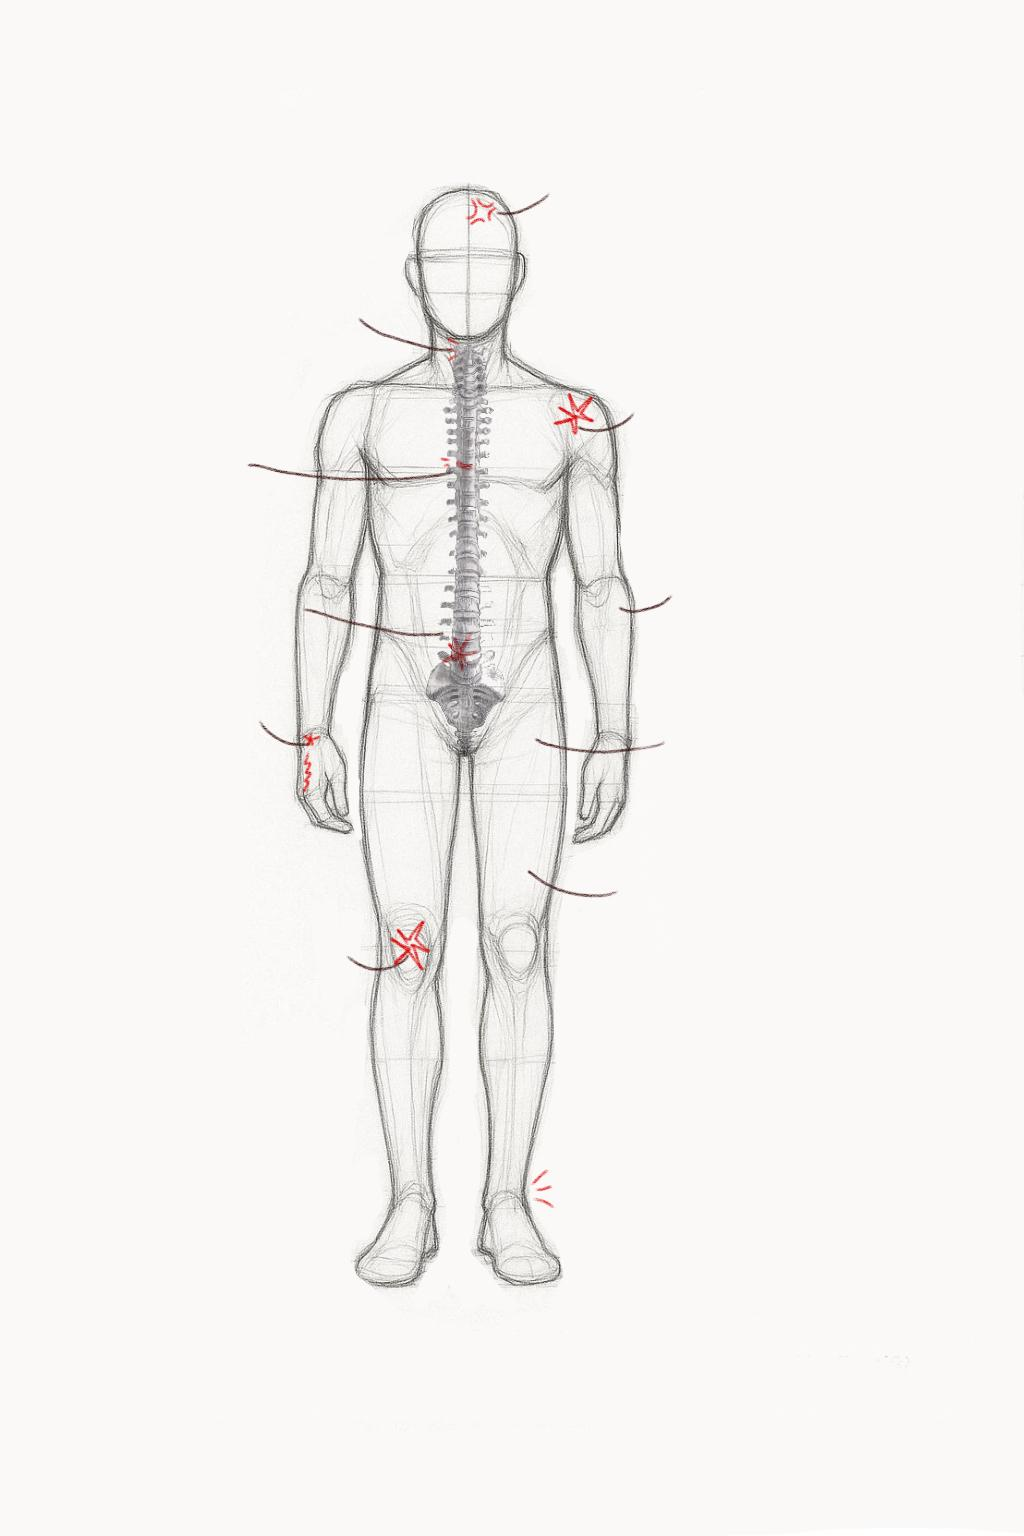
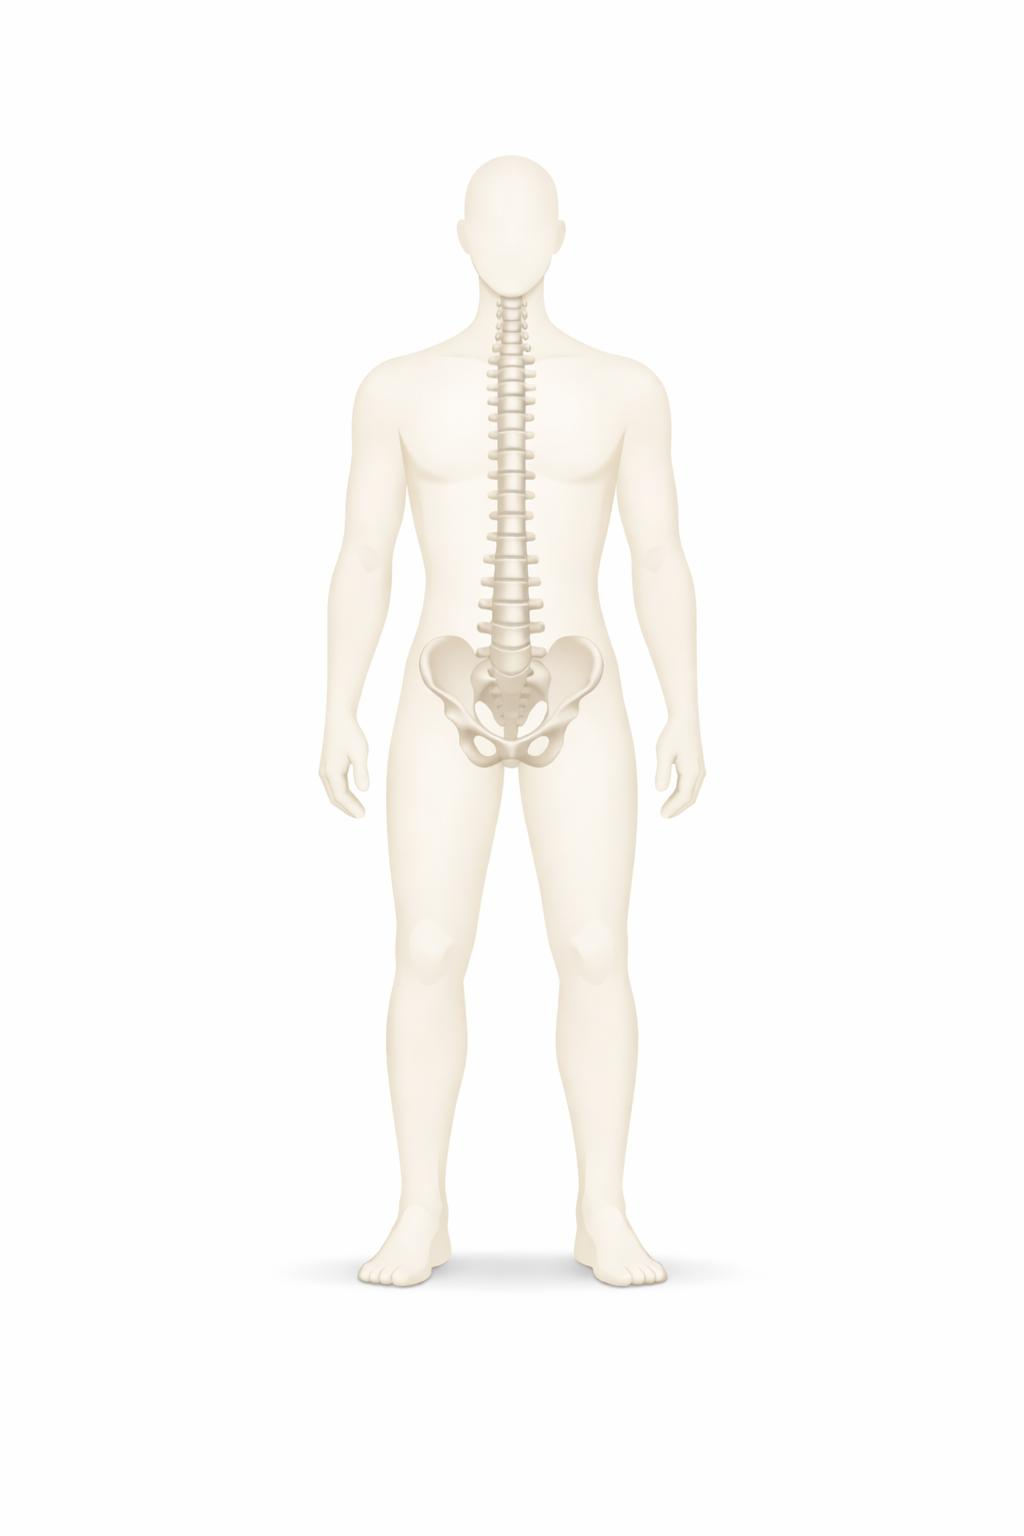
eee

Changed region(s): [[0.2812, 0.0938, 0.6875, 0.8438]]

diff --git a/Site Laly/index.html b/Site Laly/index.html
@@ -191,21 +191,15 @@
               alt="Schema du corps avec zones de douleurs frequentes" />
 
             <button class="bodymap__tag bodymap__tag--migraines" type="button"
-                    data-title="Migraines"
+                    data-title="Migraine"
                     data-text="Le travail cervical et cranio-mandibulaire peut reduire certaines tensions mecaniques associees aux migraines et cephalees.">
-              Migraines
-            </button>
-
-            <button class="bodymap__tag bodymap__tag--vertiges" type="button"
-                    data-title="Vertiges"
-                    data-text="Un bilan global permet d'identifier les restrictions cervicales ou posturales pouvant entretenir des sensations vertigineuses.">
-              Vertiges
+              Migraine
             </button>
 
             <button class="bodymap__tag bodymap__tag--cervicale" type="button"
-                    data-title="Douleur cervicale / torticolis"
+                    data-title="Douleur cervicale"
                     data-text="La chiropraxie vise a restaurer la mobilite du rachis cervical et a diminuer les tensions musculaires responsables des blocages.">
-              Douleur cervicale / torticolis
+              Douleur cervicale
             </button>
 
             <button class="bodymap__tag bodymap__tag--epaule" type="button"
@@ -214,28 +208,10 @@
               Douleur d'epaule
             </button>
 
-            <button class="bodymap__tag bodymap__tag--dorsalgie" type="button"
-                    data-title="Dorsalgie / hernie discale"
-                    data-text="Le traitement combine evaluation neurologique, mobilisation ciblee et conseils pour diminuer les contraintes discales au quotidien.">
-              Dorsalgie / hernie discale
-            </button>
-
-            <button class="bodymap__tag bodymap__tag--raideur" type="button"
-                    data-title="Raideur vertebrale"
-                    data-text="Les ajustements et mobilisations ameliorent l'amplitude articulaire et la qualite du mouvement, avec un plan d'exercices simple.">
-              Raideur vertebrale
-            </button>
-
             <button class="bodymap__tag bodymap__tag--lombalgie" type="button"
                     data-title="Lombalgie"
                     data-text="Pour les douleurs lombaires, l'objectif est de reduire l'irritation mecanique, ameliorer la stabilite et prevenir les recidives.">
               Lombalgie
-            </button>
-
-            <button class="bodymap__tag bodymap__tag--tendinite" type="button"
-                    data-title="Tendinite"
-                    data-text="La chiropraxie agit sur les chaines de compensation articulaires et musculaires pour decharger la zone tendineuse irritee.">
-              Tendinite
             </button>
 
             <button class="bodymap__tag bodymap__tag--carpien" type="button"
@@ -244,16 +220,10 @@
               Canal carpien
             </button>
 
-            <button class="bodymap__tag bodymap__tag--hanche" type="button"
-                    data-title="Douleur de hanche"
-                    data-text="Le bassin, la colonne et la chaine inferieure sont ajustes ensemble pour reduire les surcharges sur la hanche.">
-              Douleur de hanche
-            </button>
-
             <button class="bodymap__tag bodymap__tag--genoux" type="button"
-                    data-title="Genoux"
+                    data-title="Douleur genou"
                     data-text="L'analyse du genou inclut aussi cheville, hanche et bassin afin de corriger les appuis et limiter les contraintes.">
-              Genoux
+              Douleur genou
             </button>
 
             <button class="bodymap__tag bodymap__tag--sciatique" type="button"
@@ -262,25 +232,75 @@
               Sciatique
             </button>
 
-            <button class="bodymap__tag bodymap__tag--sport" type="button"
-                    data-title="Blessure sportive"
-                    data-text="Objectif: recuperer plus vite, optimiser la mobilite et prevenir les recidives grace a un suivi adapte a votre pratique.">
-              Blessure sportive
-            </button>
-
-            <button class="bodymap__tag bodymap__tag--cheville" type="button"
-                    data-title="Cheville"
-                    data-text="Une cheville limitee peut impacter toute la posture. Le traitement vise a retrouver stabilite, mobilite et confiance en appui.">
-              Cheville
-            </button>
-
-            <button class="bodymap__tag bodymap__tag--mobilite" type="button"
-                    data-title="Mobilite"
-                    data-text="Au-dela de la douleur, la chiropraxie aide a retrouver de l'aisance dans les gestes du quotidien et une meilleure qualite de mouvement.">
-              Mobilite
-            </button>
           </div>
 
+        </div>
+
+        <div class="bodymap__locker" aria-label="Autres motifs de consultation">
+          <p class="bodymap__lockerTitle">Autres motifs de consultation</p>
+          <ul class="bodymap__lockerList">
+            <li class="bodymap__lockerItem">
+              <button class="bodymap__lockerBtn" type="button"
+                      data-title="Vertiges"
+                      data-text="Un bilan global permet d'identifier les restrictions cervicales ou posturales pouvant entretenir des sensations vertigineuses.">
+                Vertiges
+              </button>
+            </li>
+            <li class="bodymap__lockerItem">
+              <button class="bodymap__lockerBtn" type="button"
+                      data-title="Dorsalgie / hernie discale"
+                      data-text="Le traitement combine evaluation neurologique, mobilisation ciblee et conseils pour diminuer les contraintes discales au quotidien.">
+                Dorsalgie / hernie discale
+              </button>
+            </li>
+            <li class="bodymap__lockerItem">
+              <button class="bodymap__lockerBtn" type="button"
+                      data-title="Raideur vertebrale"
+                      data-text="Les ajustements et mobilisations ameliorent l'amplitude articulaire et la qualite du mouvement, avec un plan d'exercices simple.">
+                Raideur vertebrale
+              </button>
+            </li>
+            <li class="bodymap__lockerItem">
+              <button class="bodymap__lockerBtn" type="button"
+                      data-title="Tendinite"
+                      data-text="La chiropraxie agit sur les chaines de compensation articulaires et musculaires pour decharger la zone tendineuse irritee.">
+                Tendinite
+              </button>
+            </li>
+            <li class="bodymap__lockerItem">
+              <button class="bodymap__lockerBtn" type="button"
+                      data-title="Douleur de hanche"
+                      data-text="Le bassin, la colonne et la chaine inferieure sont ajustes ensemble pour reduire les surcharges sur la hanche.">
+                Douleur de hanche
+              </button>
+            </li>
+            <li class="bodymap__lockerItem">
+              <button class="bodymap__lockerBtn" type="button"
+                      data-title="Blessure sportive"
+                      data-text="Objectif: recuperer plus vite, optimiser la mobilite et prevenir les recidives grace a un suivi adapte a votre pratique.">
+                Blessure sportive
+              </button>
+            </li>
+            <li class="bodymap__lockerItem">
+              <button class="bodymap__lockerBtn" type="button"
+                      data-title="Cheville"
+                      data-text="Une cheville limitee peut impacter toute la posture. Le traitement vise a retrouver stabilite, mobilite et confiance en appui.">
+                Cheville
+              </button>
+            </li>
+            <li class="bodymap__lockerItem">
+              <button class="bodymap__lockerBtn" type="button"
+                      data-title="Mobilite"
+                      data-text="Au-dela de la douleur, la chiropraxie aide a retrouver de l'aisance dans les gestes du quotidien et une meilleure qualite de mouvement.">
+                Mobilite
+              </button>
+            </li>
+          </ul>
+          <div class="bodymap__lockerPanel" id="bodymap-locker-panel" data-bodymap-locker-panel hidden aria-hidden="true">
+            <p class="bodymap__eyebrow">Indication frequente</p>
+            <h3 class="bodymap__panelTitle" data-bodymap-locker-title>Selectionnez un motif</h3>
+            <p class="bodymap__panelText" data-bodymap-locker-text>Cliquez sur un element du casier pour afficher les informations.</p>
+          </div>
         </div>
 
         <p class="bodymap__note">

diff --git a/Site Laly/assets/css/index.css b/Site Laly/assets/css/index.css
@@ -604,20 +604,90 @@
 }
 
 .bodymap__tag--migraines{ top:11%; right:30%; }
-.bodymap__tag--vertiges{ top:16%; right:18%; }
 .bodymap__tag--cervicale{ top:16%; left:-7%; max-width:300px; }
 .bodymap__tag--epaule{ top:24%; right:9%; max-width:300px; }
-.bodymap__tag--dorsalgie{ top:27%; left:-7%; max-width:300px; }
-.bodymap__tag--raideur{ top:30%; right:10%; max-width:300px; }
 .bodymap__tag--lombalgie{ top:36%; left:-4%; }
-.bodymap__tag--tendinite{ top:36%; right:15%; }
 .bodymap__tag--carpien{ top:44%; left:5%; }
-.bodymap__tag--hanche{ top:46%; right:5%; }
-.bodymap__tag--genoux{ top:59%; left:18%; }
+.bodymap__tag--genoux{ top:59%; left:14%; max-width:220px; }
 .bodymap__tag--sciatique{ top:55%; right:16%; }
-.bodymap__tag--sport{ top:63%; right:13%; }
-.bodymap__tag--mobilite{ top:66%; left:10%; }
-.bodymap__tag--cheville{ top:73%; right:28%; }
+
+.bodymap__locker{
+  width:min(920px, 100%);
+  margin:10px auto 0;
+  padding:18px 20px;
+  background:rgba(255, 255, 255, .68);
+  border:1px solid rgba(20, 54, 44, .14);
+  border-radius:16px;
+  box-shadow:0 12px 28px rgba(20, 44, 36, .08);
+}
+
+.bodymap__lockerTitle{
+  margin:0 0 12px;
+  font-family:var(--ff-title);
+  color:var(--c-text);
+  font-size:22px;
+  line-height:1.2;
+}
+
+.bodymap__lockerList{
+  margin:0;
+  padding:0;
+  list-style:none;
+  display:flex;
+  flex-wrap:wrap;
+  gap:10px;
+}
+
+.bodymap__lockerItem{
+  margin:0;
+}
+
+.bodymap__lockerBtn{
+  border:none;
+  padding:7px 12px;
+  border-radius:999px;
+  background:rgba(30, 107, 58, .10);
+  border:1px solid rgba(30, 107, 58, .20);
+  color:#2b4d41;
+  font-family:var(--ff-body);
+  font-size:14px;
+  line-height:1.35;
+  font-weight:700;
+  cursor:pointer;
+  transition:background .18s ease, border-color .18s ease, color .18s ease, transform .18s ease;
+}
+
+.bodymap__lockerBtn:hover,
+.bodymap__lockerBtn:focus-visible{
+  background:rgba(30, 107, 58, .16);
+  border-color:rgba(30, 107, 58, .36);
+  transform:translateY(-1px);
+  outline:none;
+}
+
+.bodymap__lockerBtn.is-active{
+  background:rgba(30, 107, 58, .24);
+  border-color:rgba(30, 107, 58, .46);
+  color:#17352d;
+}
+
+.bodymap__lockerPanel{
+  margin-top:14px;
+  padding:14px 16px;
+  background:rgba(255, 255, 255, .94);
+  border:1px solid rgba(20, 54, 44, .14);
+  border-radius:12px;
+}
+
+.bodymap__lockerPanel .bodymap__panelTitle{
+  margin:8px 0 8px;
+  font-size:20px;
+}
+
+.bodymap__lockerPanel .bodymap__panelText{
+  font-size:14px;
+  line-height:1.55;
+}
 
 .bodymap__tagPopup{
   position:absolute;
@@ -712,6 +782,16 @@
   .bodymap__layout{
     grid-template-columns:1fr;
     gap:16px;
+  }
+
+  .bodymap__locker{
+    padding:14px;
+    border-radius:14px;
+  }
+
+  .bodymap__lockerTitle{
+    font-size:20px;
+    margin-bottom:10px;
   }
 
   .bodymap__panelTitle{

diff --git a/Site Laly/assets/js/index.js b/Site Laly/assets/js/index.js
@@ -300,4 +300,69 @@
   });
 })();
 
+/* Body map locker interactions */
+(function(){
+  const locker = document.querySelector('.bodymap__locker');
+  if(!locker) return;
+
+  const buttons = [...locker.querySelectorAll('.bodymap__lockerBtn')];
+  const panel = locker.querySelector('[data-bodymap-locker-panel]');
+  const title = locker.querySelector('[data-bodymap-locker-title]');
+  const text = locker.querySelector('[data-bodymap-locker-text]');
+  if(!buttons.length || !panel || !title || !text) return;
+
+  let activeButton = null;
+
+  function setActive(button){
+    activeButton = button;
+
+    buttons.forEach((item) => {
+      const isCurrent = item === button;
+      item.classList.toggle('is-active', isCurrent);
+      item.setAttribute('aria-pressed', isCurrent ? 'true' : 'false');
+      item.setAttribute('aria-expanded', isCurrent ? 'true' : 'false');
+    });
+
+    if(!button){
+      panel.hidden = true;
+      panel.setAttribute('aria-hidden', 'true');
+      return;
+    }
+
+    title.textContent = button.dataset.title || button.textContent.trim();
+    text.textContent = button.dataset.text || '';
+    panel.hidden = false;
+    panel.setAttribute('aria-hidden', 'false');
+  }
+
+  buttons.forEach((button) => {
+    button.setAttribute('aria-controls', 'bodymap-locker-panel');
+    button.setAttribute('aria-pressed', 'false');
+    button.setAttribute('aria-expanded', 'false');
+
+    button.addEventListener('click', (e) => {
+      e.stopPropagation();
+
+      if(activeButton === button){
+        setActive(null);
+        return;
+      }
+
+      setActive(button);
+    });
+  });
+
+  document.addEventListener('click', (e) => {
+    if(locker.contains(e.target)) return;
+    if(!activeButton) return;
+    setActive(null);
+  });
+
+  document.addEventListener('keydown', (e) => {
+    if(e.key !== 'Escape') return;
+    if(!activeButton) return;
+    setActive(null);
+  });
+})();
+
 
